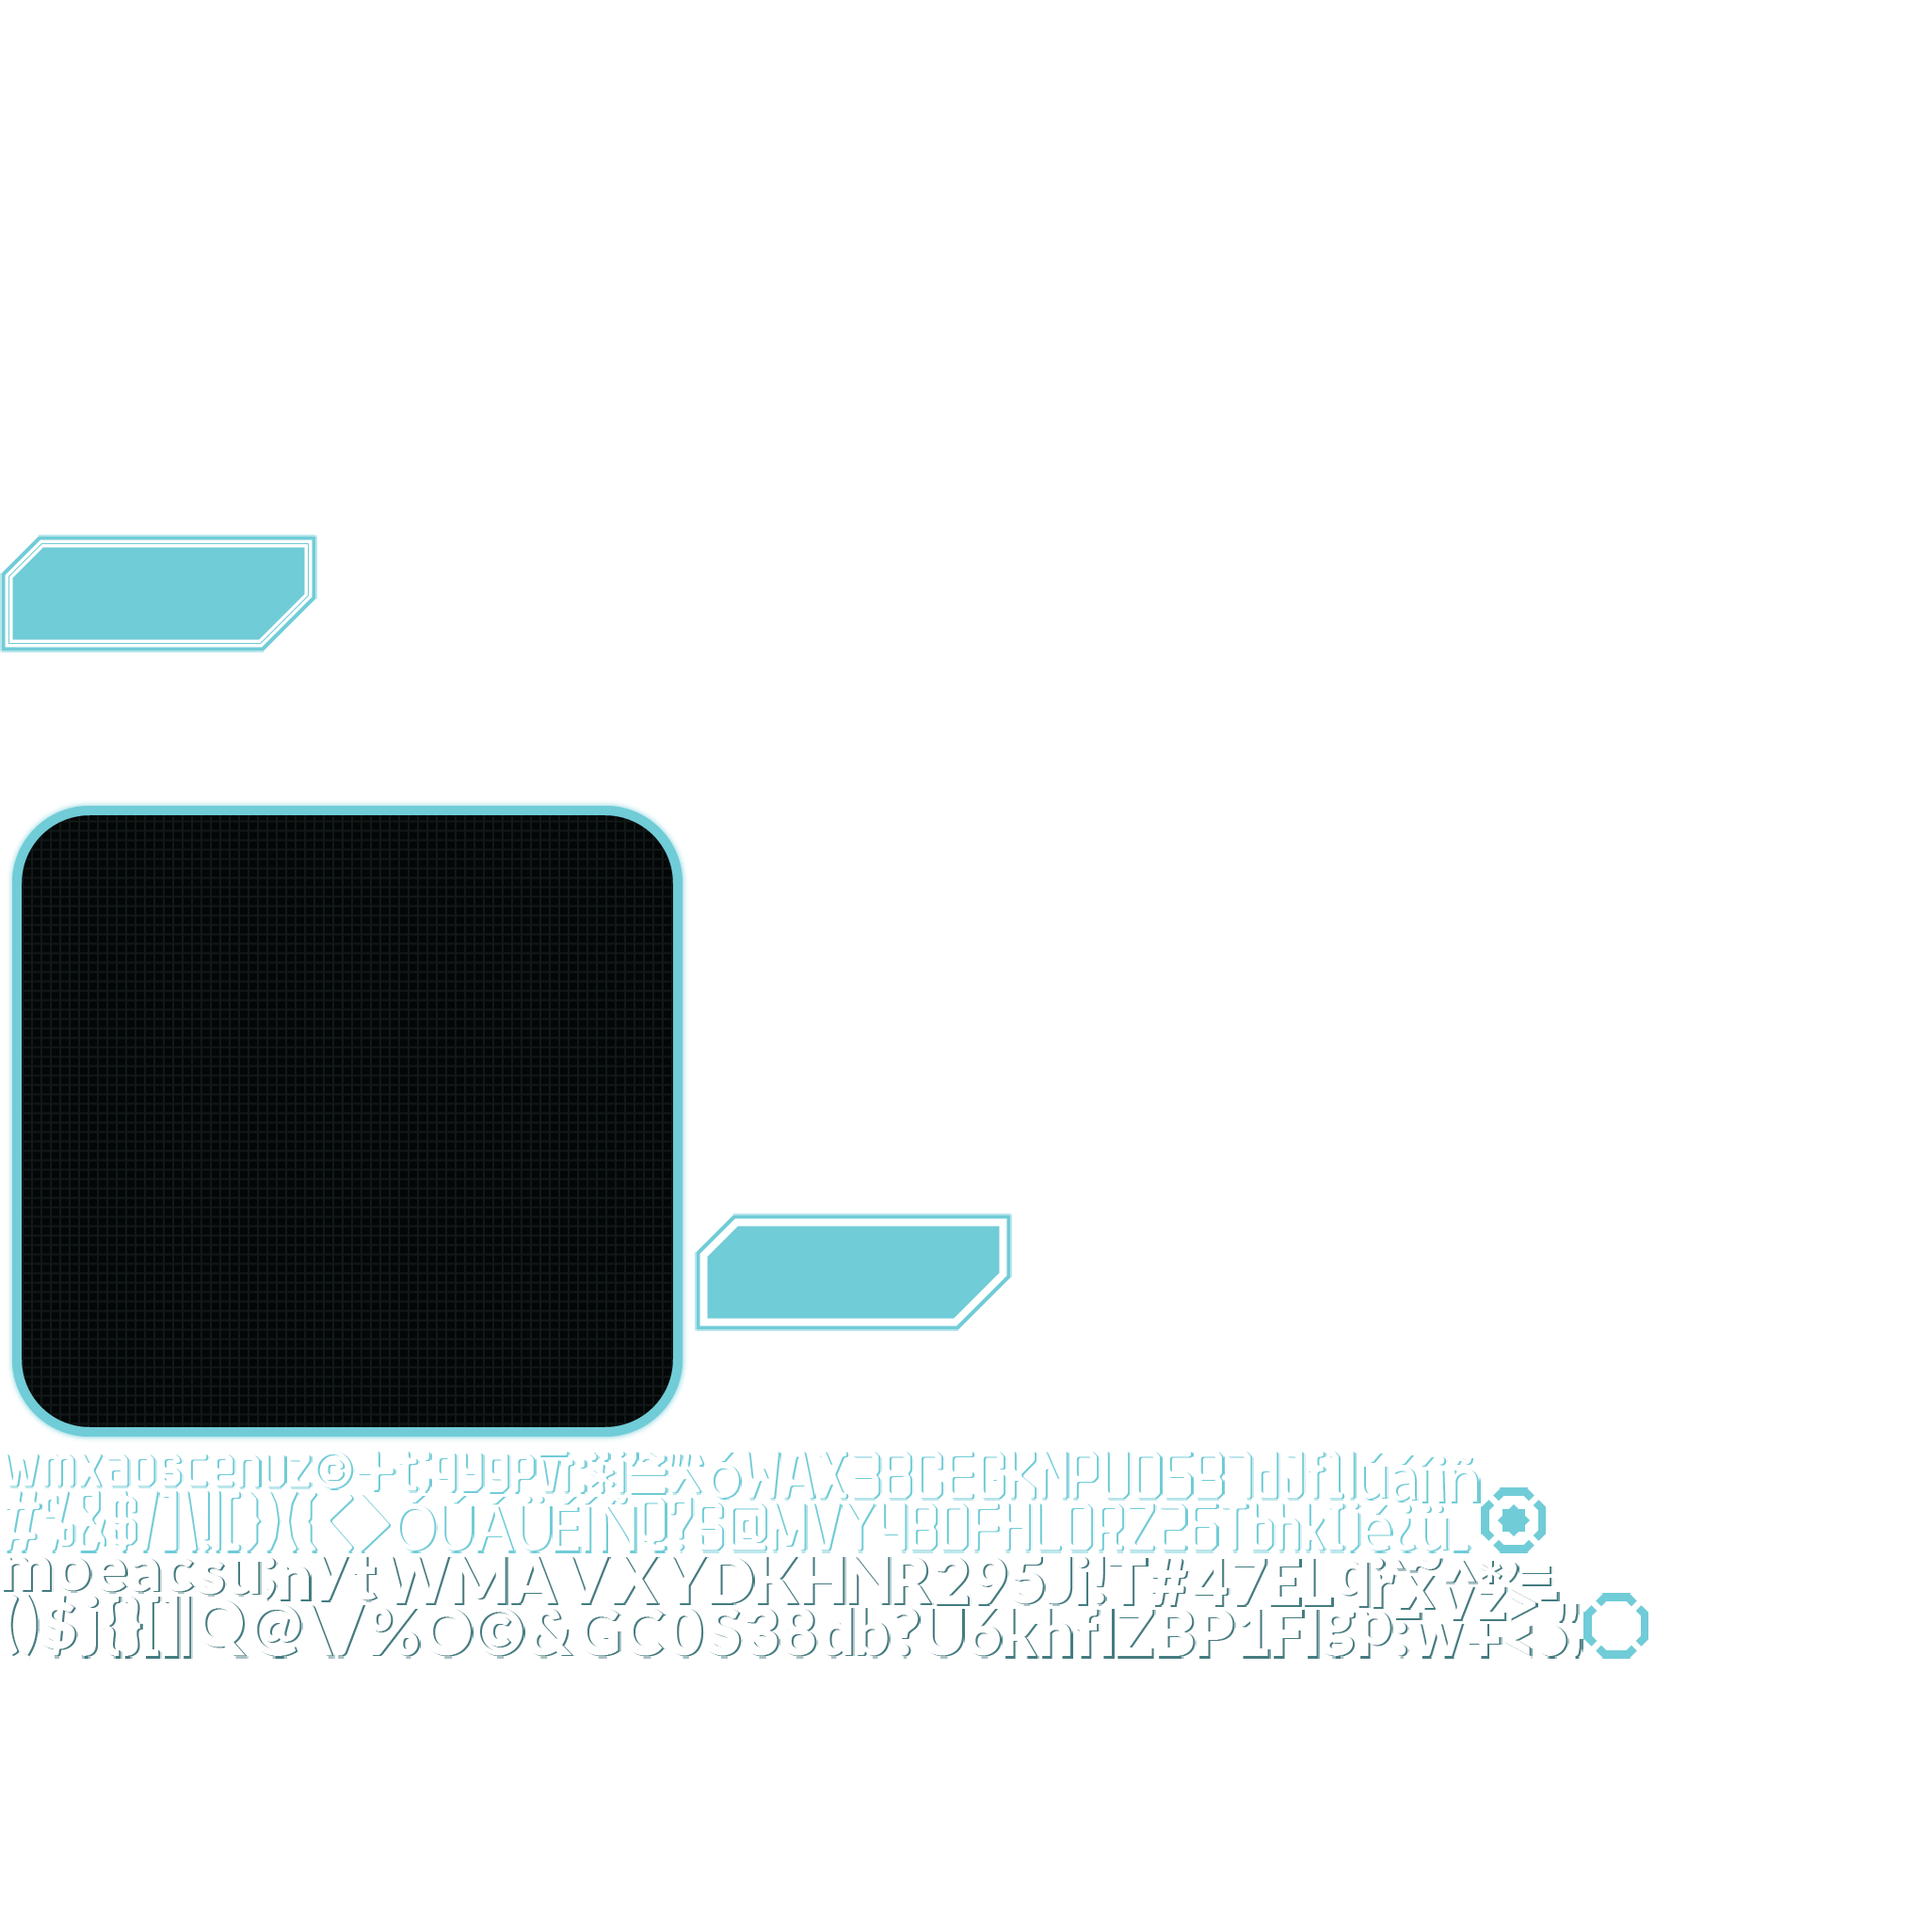
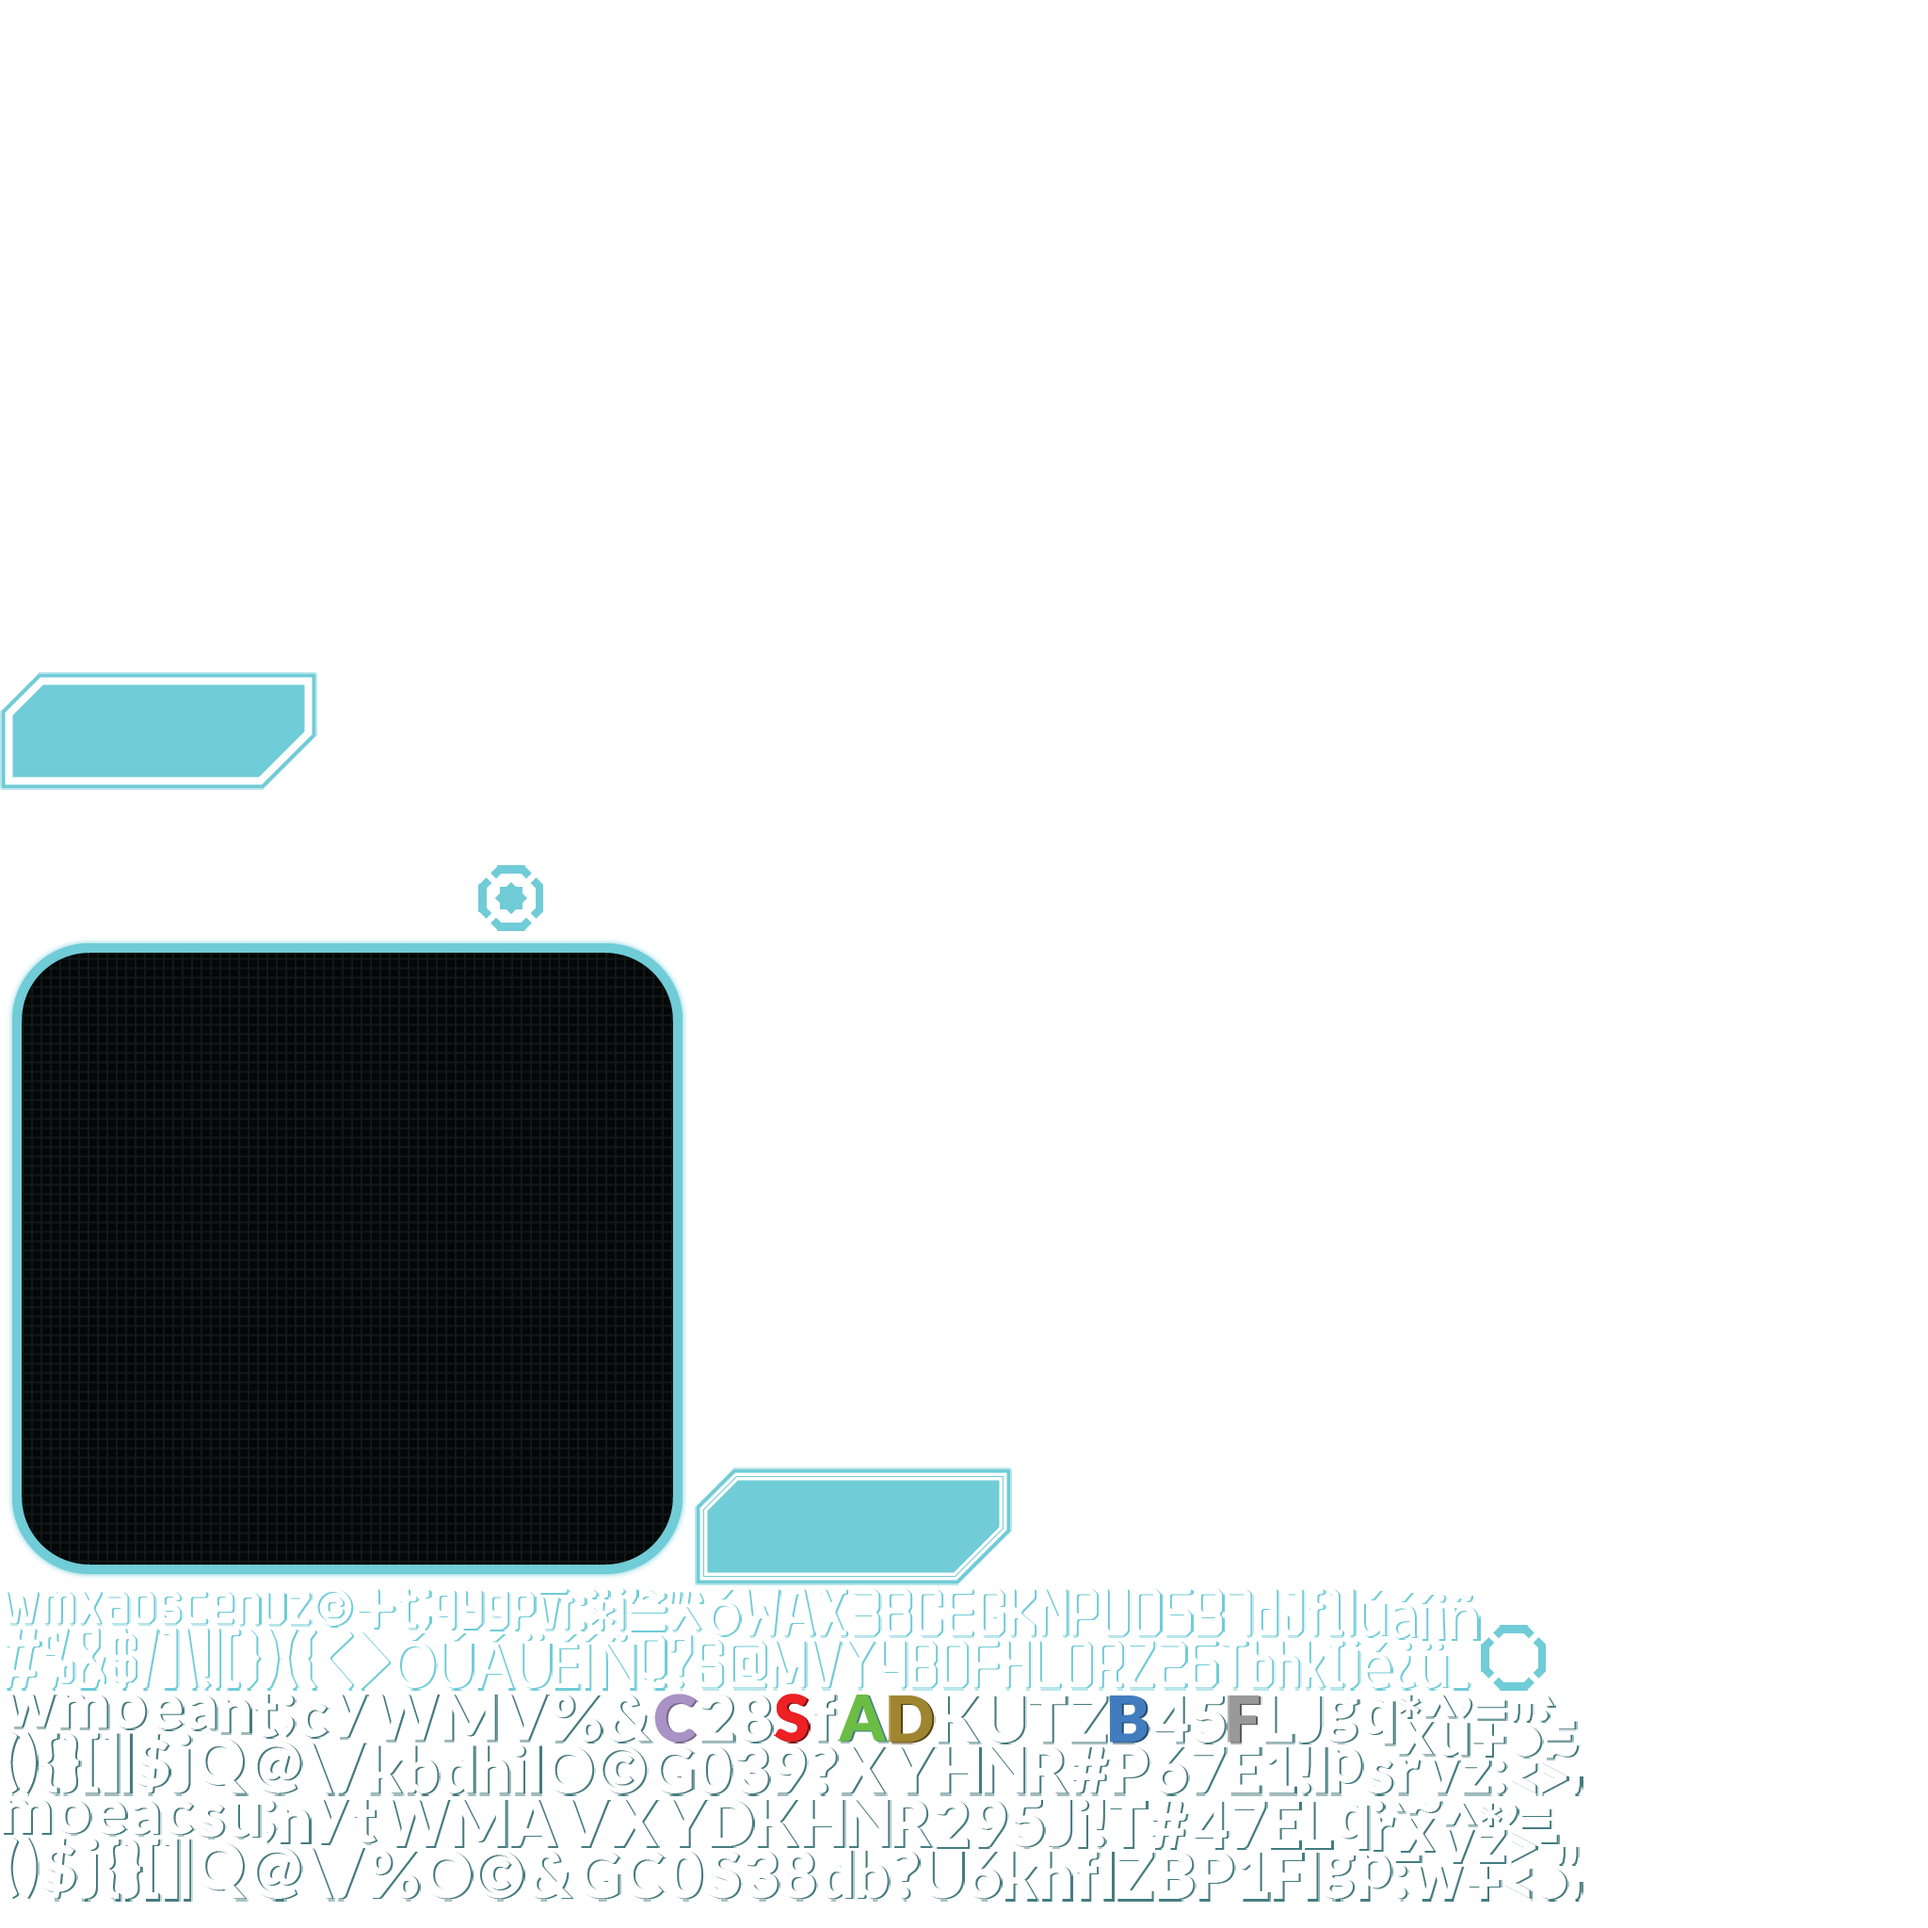
Added award text based on performance.

Changed region(s): [[0.0, 0.7188, 0.8438, 1.0], [0.0, 0.2812, 0.375, 0.5312], [0.3438, 0.625, 0.5312, 0.6875]]

diff --git a/core/src/com/ray3k/jam/screens/GameScreen.java b/core/src/com/ray3k/jam/screens/GameScreen.java
@@ -34,11 +34,13 @@ import com.badlogic.gdx.scenes.scene2d.InputEvent;
 import com.badlogic.gdx.scenes.scene2d.InputListener;
 import com.badlogic.gdx.scenes.scene2d.Stage;
 import com.badlogic.gdx.scenes.scene2d.Touchable;
+import com.badlogic.gdx.scenes.scene2d.actions.Actions;
 import com.badlogic.gdx.scenes.scene2d.ui.Label;
 import com.badlogic.gdx.scenes.scene2d.ui.ProgressBar;
 import com.badlogic.gdx.scenes.scene2d.ui.ScrollPane;
 import com.badlogic.gdx.scenes.scene2d.ui.Skin;
 import com.badlogic.gdx.scenes.scene2d.ui.Table;
+import com.badlogic.gdx.utils.Array;
 import com.badlogic.gdx.utils.viewport.ExtendViewport;
 import com.badlogic.gdx.utils.viewport.ScreenViewport;
 import com.badlogic.gdx.utils.viewport.Viewport;
@@ -284,7 +286,7 @@ public class GameScreen extends JamScreen {
         queue.add(new DelayEvent(1));
         queue.add(new AudioEvent("bgm/15.ogg", core));
         queue.add(new DelayEvent(1));
-        queue.add(new TextEvent("JESUS CHRIST! If you don't do it. I will. I'm not going to let you fucking die. Not to this creep.", 22));
+        queue.add(new TextEvent("JESUS CHRIST! If you don't do it, I will. I'm not going to let you fucking die. Not to this creep.", 22));
         queue.add(new DelayEvent(1));
         queue.add(new AudioEvent("bgm/16.ogg", core));
         queue.add(new DelayEvent(1));
@@ -359,5 +361,47 @@ public class GameScreen extends JamScreen {
         queue.add(new TextEvent("And for this, I am very sorry. Thank you for playing.", 10));
         queue.add(new DelayEvent(1));
         queue.add(new GameEndEvent(core));
+    }
+    
+    public void showAward(char grade) {
+        var label = new Label("", skin, "award");
+        
+        var list = new Array<String>();
+        switch (grade) {
+            case 's':
+                list.addAll("Stylish!", "Sexy!", "Super!", "Supreme!", "Saucy!", "Sassy!", "Suprising!", "Sweet!");
+                label.setColor(Color.RED);
+                break;
+            case 'a':
+                list.addAll("Ace!", "Awesome!", "Amazing!", "A+!", "Axel!", "Admirable!", "Authentic!");
+                label.setColor(Color.GREEN);
+                break;
+            case 'b':
+                list.addAll("Baby!", "Bold!", "Bright!", "Bustling!", "Bananas!", "Beautiful!", "Brazen!");
+                label.setColor(Color.BLUE);
+                break;
+            case 'c':
+                list.addAll("Calm", "Casual", "Crazy", "Cookie", "Civilian", "Contrary", "Clumsy");
+                label.setColor(Color.ORANGE);
+                break;
+            case 'd':
+                list.addAll("Demeaning", "Demoted", "Demonstrable", "Demonic", "Dumb", "Droopy");
+                label.setColor(Color.CHARTREUSE);
+                break;
+            case 'f':
+                list.addAll("Failure", "Fucked", "Fumbled", "Facetious", "False", "Fake", "Fallacious", "Fallen", "Farce", "Flagrant", "Flaky", "Floundering", "Forsaken");
+                label.setColor(Color.LIGHT_GRAY);
+                break;
+            default:
+                break;
+        }
+        
+        label.setText(list.random());
+        
+        label.setPosition(0, stage.getHeight());
+        stage.addActor(label);
+        label.pack();
+        
+        label.addAction(Actions.sequence(Actions.moveBy(0, -label.getHeight(), .2f), Actions.delay(1), Actions.moveBy(0, label.getHeight(), .2f), Actions.removeActor()));
     }
 }

diff --git a/core/src/com/ray3k/jam/timeline/TextEvent.java b/core/src/com/ray3k/jam/timeline/TextEvent.java
@@ -12,7 +12,7 @@ public class TextEvent implements TimelineEvent {
     private float time;
     private int words;
     private TemporalAction action;
-    public static final float HANDICAP = 3;
+    public static final float HANDICAP = 4;
 
     public TextEvent(String text, float time) {
         this.text = text;
@@ -48,7 +48,7 @@ public class TextEvent implements TimelineEvent {
                 gameScreen.progressBar.setAnimateDuration(.1f);
                 gameScreen.progressBar.setValue(1 - percent);
                 gameScreen.time += getTime();
-                gameScreen.score += time -= getTime();
+                gameScreen.score += time - getTime();
                 gameScreen.words += words;
             }
         };
@@ -59,5 +59,14 @@ public class TextEvent implements TimelineEvent {
     public void end() {
         var gameScreen = GameScreen.gameScreen;
         gameScreen.actionsManager.removeAction(action);
+        
+        float difference = time - action.getTime();
+        if (difference > 5) gameScreen.showAward('s');
+        else if (difference > 4) gameScreen.showAward('a');
+        else if (difference > 3) gameScreen.showAward('b');
+        else if (difference > 2) gameScreen.showAward('c');
+        else if (difference > 1) gameScreen.showAward('d');
+        else gameScreen.showAward('f');
+        
     }
 }
